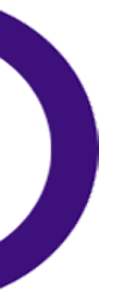
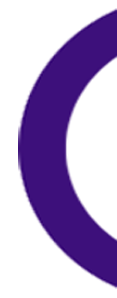
FinalPutting

diff --git a/index.html b/index.html
@@ -5,20 +5,52 @@
     <meta name="viewport" content="width=device-width, initial-scale=1.0">
     <title>Sen's Bio</title>
     <link href="https://fonts.googleapis.com/css?family=Ubuntu&display=swap" rel="stylesheet">
+    <link href="https://fonts.googleapis.com/css?family=Lobster&display=swap" rel="stylesheet">
     <link rel="stylesheet" href="style.css">
 </head>
 <body>
-    <section>
+    <section class="top-site">
         <div class="half-width">
             <h1>Welcome to</h1>
         <h1><span class="clr1">Sen's</span> Branch</h1>
         <h3>About Sen</h3>
-        <p>Hi!!
-            It's me Julon... I love to coding myself as Sen. I will give you 100% support on my duty given by you.</p>
+        <p>Hi!!</p>
+        <p>It's me Julon... I love to coding myself as Sen. I will give you 100% support on my duty given by you.</p>
+        <a class="get-button" target="_none" href="https://www.linkedin.com/in/pro-sen-100b7b1a3/">Get Me</a>
         </div>
         <div class="half-width">
             <img src="web/Profile-1.png" alt="">
+            
         </div>
     </section>
+    <section class="Dream">
+        <div class="half-width">
+            <img src="web/Profile-2.png" alt="">
+        </div>
+        <div class="half-width">
+            <h2>workda</h2>
+            <h3>csfklfkg</h3>
+            <p>It's me Julon... I love to coding myself as Sen. I will give you 100% support on my duty given by you.</p>
+            <a class="get-button" target="_blank" href="https://www.facebook.com/DesignSolution.ctg/">My FB Page</a>
+
+        </div>
+    </section>
+    <section class="experince">
+        <h2>Experinces</h2>
+        <div id="full-stack" class="half-width Experinces-class">
+            <h2>Graphics Design</h2>
+            <h3 class="Orange">Design Solution | Present: 5years</h3>
+            <p>ifhiahfihafihfiahifahihihaihfihaihifhaihihfaihfifhihaifhiahifhaihiafhiafhiahifahifhaihfiahfihaihfiahfihaihfiahifhaifhahifhaihfiahifhia</p>
+
+        </div>
+        <div id="For-Web" class="half-width Experinces-class">
+            <h2>Web Developer</h2>
+            <h3 class="Orange">Trained by ProgramingHero</h3>
+            <p>ajdjaojdoajodjaojdoajojdoajodjaojdojaojfoghahiyye9ryhighihaihihaigygaodaoadoudofhhodoaiudoiuofoafohofhgo9odfaohudhau</p>
+        </div>
+    </section>
+    <footer>
+        © ProSen-02-MCH-Reservs_All_Rights
+    </footer>
 </body>
 </html>

diff --git a/Style.css b/Style.css
@@ -1,11 +1,19 @@
 body{
+    margin: 0px;
     font-family: 'Ubuntu';
 }
 h1{
     font-size: 50px;
 }
+h2{
+    font-size: 40px;
+}
+p{
+    color: dimgrey;
+}
 .clr1{
     color: rgb(1, 18, 247);
+    font-family: 'Lobster';
 }
 .half-width{
     width: 40%;
@@ -15,4 +23,52 @@ h1{
 }
 .half-width img{
     width: 100%;
+}
+.top-site{
+    background-image: url("web/my top-banner copy.png");
+    background-repeat: no-repeat;
+}
+section{
+    height: 500px;
+    padding-bottom: 150px;
+}
+.get-button{
+    text-decoration: none;
+    background-color: blueviolet;
+    padding: 10px 20px;
+    border-radius: 5px;
+    color: white;
+    font-weight: bold;
+}
+.Dream{
+    background-image: url("web/Dream Right].png");
+    background-repeat: no-repeat;
+    background-position: right;
+}
+.Orange{
+    color: blueviolet;
+}
+.Experinces-class{
+    box-shadow: 10px 20px 40px gray;
+    border-radius: 10px;
+    height: 60%;
+}
+.experince{
+    background-image: url("web/Dream Left.png");
+    background-repeat: no-repeat;
+    background-position: left;
+}
+#full-stack{
+    border-left:  7px solid lime;
+    border-image-slice: 1;
+    background-color: white;
+}
+#For-Web{
+    border-left: 7px solid gold;
+    border-image-slice: 1;
+}
+footer{
+    text-align: center;
+    font-size: 12px;
+    font-family: 'Franklin Gothic Medium', 'Arial Narrow', Arial, sans-serif;
 }
